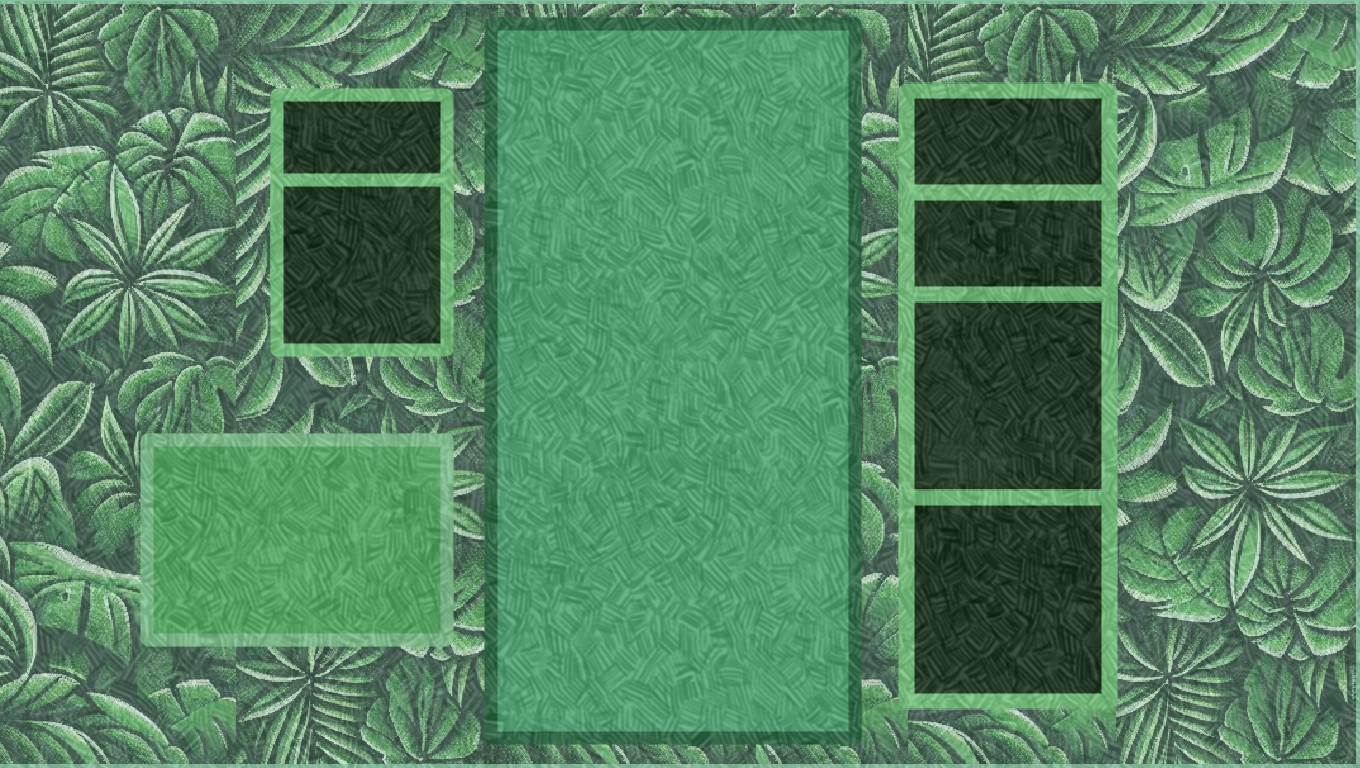
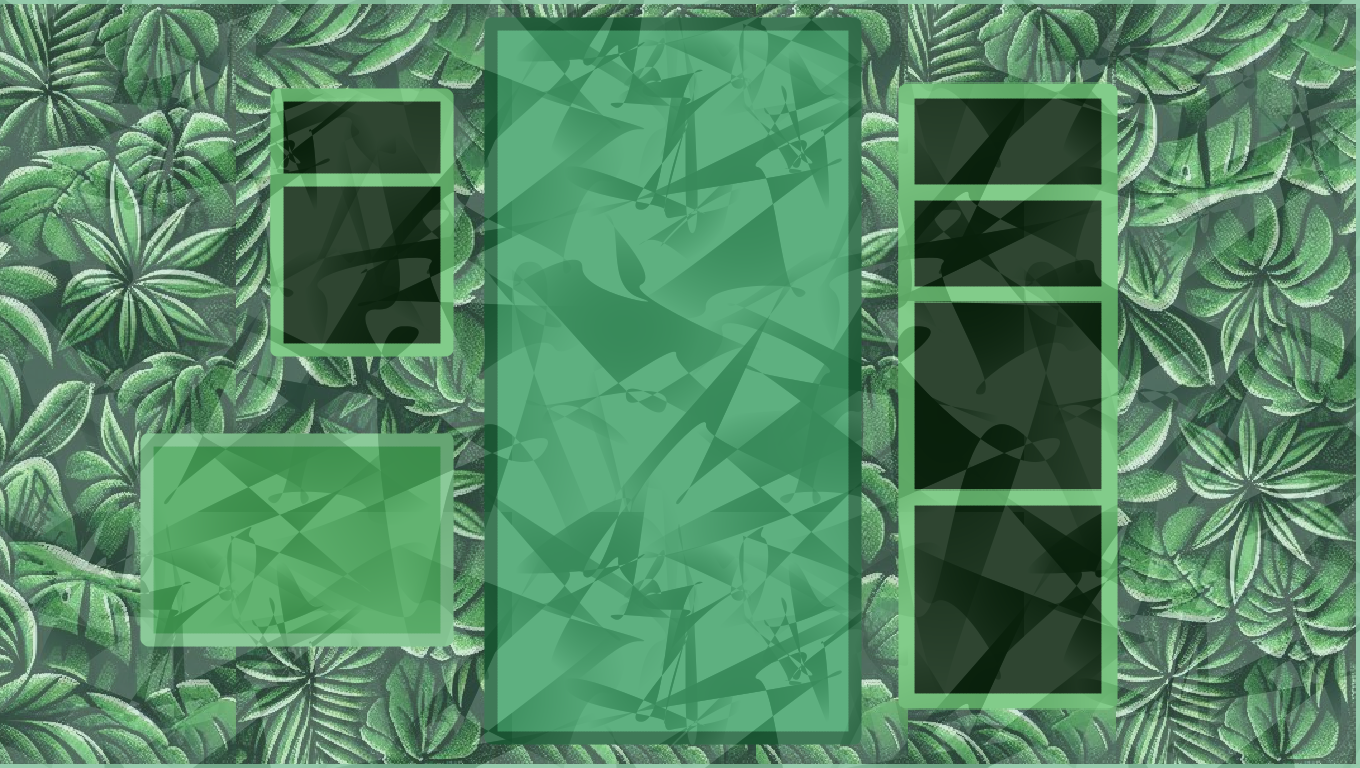
reworked design.

diff --git a/source/Impl/Game/M_Game_Hall_of_Fame.c b/source/Impl/Game/M_Game_Hall_of_Fame.c
@@ -403,8 +403,8 @@ static void hof_core_render() {
 	sdla_render_texture(mt_search_texture(HOOK_HOF_SCREEN_MASK), 0.0f, 0.0f);
 
 	int i = 0;
-	int x = 259;
-	int y = 337;
+	int x = 450;
+	int y = 325;
 	unsigned int hof_color = 4;
 	unsigned int hof_cscore_color = 2;
 

diff --git a/docs/notes/TODO-Meta.md b/docs/notes/TODO-Meta.md
@@ -52,7 +52,7 @@ DONE :
 * calculation of type of next piece must become better  +++> DONE :
    * (currently : Classic "Randomizer" System (NES))
    * see docs/notes/Calculation-of-next-piece.md
-* remove ALL memory leaks  +++> DONE
+* remove ALL memory leaks with tool : Google Address Sanitizer  +++> DONE
 * better selfmade font +++> DONE
 * add fullscreen-mode +++> DONE
 * keyboard-delay is poor at the moment - make it much better and fast! +++> DONE
@@ -96,4 +96,6 @@ TODO in NEW BRANCH(!!!) after 0.9 alpha :
 **************************************************
 TODO LATER :
 **************************************************
-* install a local bug tracking system.
+* define a theme file that can bring new masks into the game. : TODO
+  the file should also define the positions of the text-elements. : TODO
+* install a local bug tracking system. : TODO
